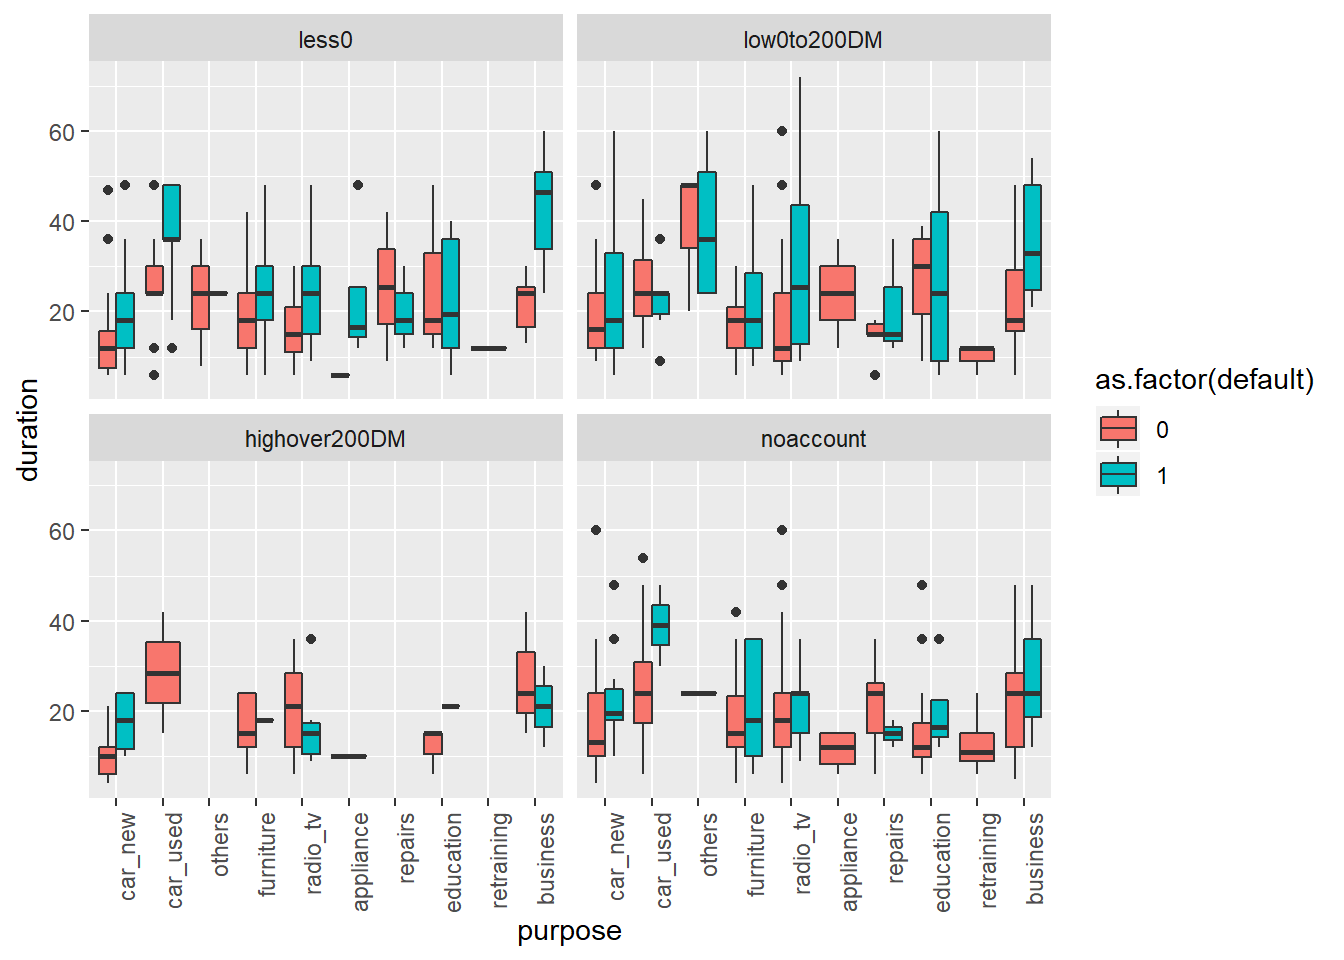
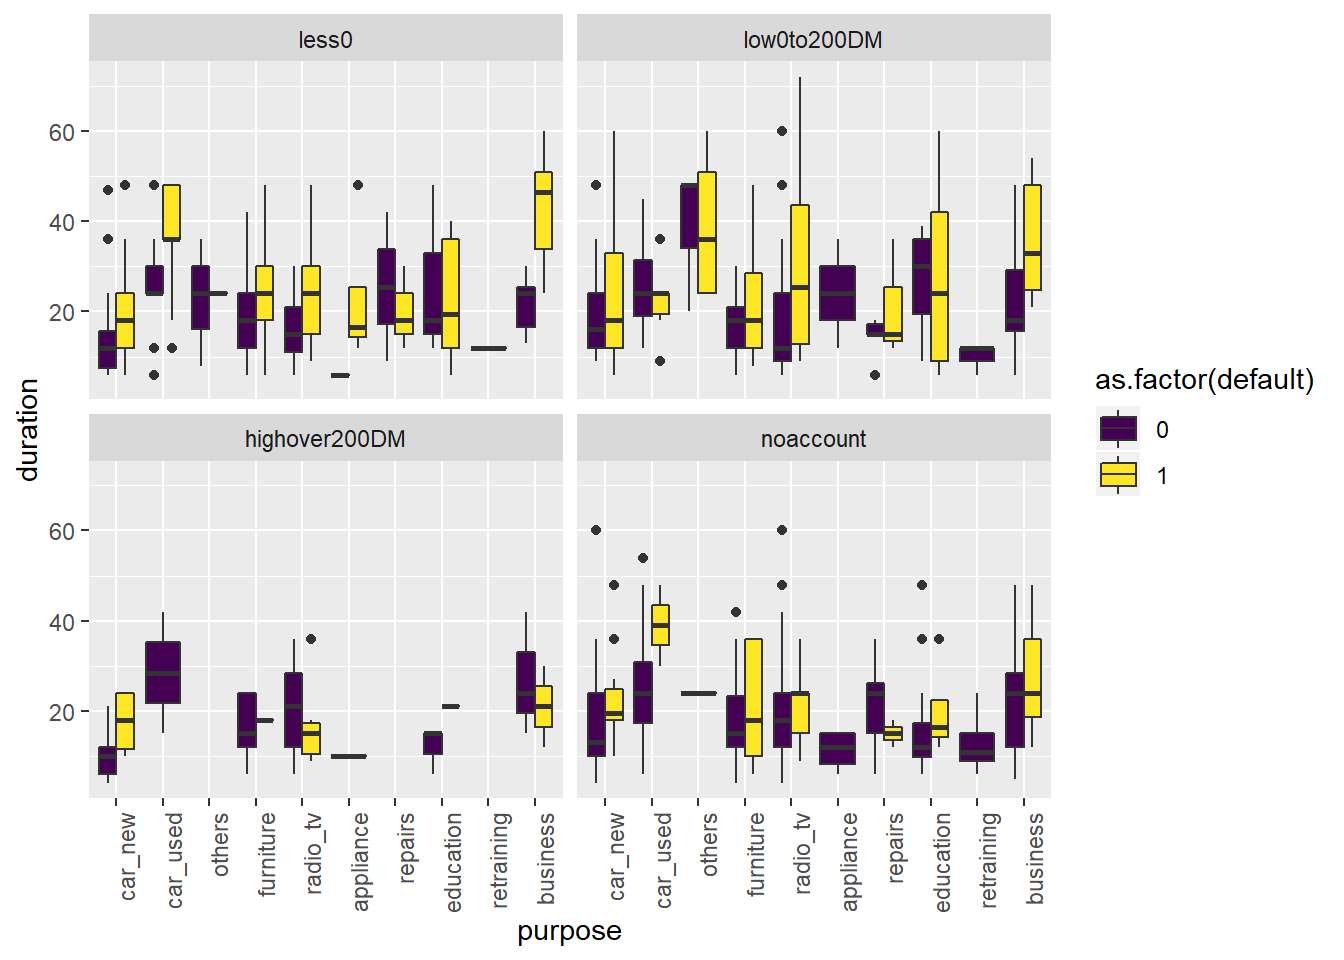
Update to knitr:kable in credit risk post

diff --git a/2018/08/15/credit-risk-modeling/index.html b/2018/08/15/credit-risk-modeling/index.html
@@ -281,11 +281,11 @@ library(scorecard)</code></pre>
 url &lt;- (&quot;http://www.biz.uiowa.edu/faculty/jledolter/DataMining/germancredit.csv&quot;)
 GET(url, write_disk(tf &lt;- tempfile(fileext = &quot;.data&quot;)))</code></pre>
 <pre><code>## Response [https://www.biz.uiowa.edu/faculty/jledolter/DataMining/germancredit.csv]
-##   Date: 2018-08-16 07:24
+##   Date: 2018-08-16 07:30
 ##   Status: 200
 ##   Content-Type: text/csv
 ##   Size: 81 kB
-## &lt;ON DISK&gt;  C:\Users\Home\AppData\Local\Temp\RtmpYfXCGe\file4d8c76f53f23.data</code></pre>
+## &lt;ON DISK&gt;  C:\Users\Home\AppData\Local\Temp\Rtmp8M1PSw\file4d3c73f754aa.data</code></pre>
 <pre class="r"><code>creditdata &lt;- read_csv(tf)</code></pre>
 <pre><code>## Parsed with column specification:
 ## cols(
@@ -635,7 +635,8 @@ IV$Summary %&gt;%
       ggplot(aes(purpose,duration,fill=as.factor(default))) +
       geom_boxplot(position=position_dodge()) +
       facet_wrap(~checkingstatus1) +
-      theme(axis.text.x = element_text(angle = 90, hjust = 1))</code></pre>
+      theme(axis.text.x = element_text(angle = 90, hjust = 1)) +
+      scale_fill_viridis_d()</code></pre>
 <p><img src="/post/CreditScoreExample_files/figure-html/boxplot-1.png" width="672" /></p>
 <div id="feature-engineering" class="section level3">
 <h3>Feature Engineering</h3>
@@ -757,7 +758,7 @@ bins &lt;- woebin(training_base, y=&quot;default&quot;,max_num_bin = 5)</code></
 <pre><code>## Warning in e$fun(obj, substitute(ex), parent.frame(), e$data): already
 ## exporting variable(s): dt, xs, y, breaks_list, min_perc_fine_bin,
 ## stop_limit, max_num_bin</code></pre>
-<pre><code>## Binning on 700 rows and 21 columns in  0: 0:13</code></pre>
+<pre><code>## Binning on 700 rows and 21 columns in  0: 0:12</code></pre>
 <pre class="r"><code># Let&#39;s visualise the bins created for the numeric variables age, duration and amount
 woebin_plot(bins$age)</code></pre>
 <pre><code>## $age</code></pre>
@@ -777,6 +778,7 @@ woebin_plot(bins$checkingstatus1)</code></pre>
 training_woe &lt;- woebin_ply(training_base, bins)</code></pre>
 <pre><code>## Warning in e$fun(obj, substitute(ex), parent.frame(), e$data): already
 ## exporting variable(s): dt, xs</code></pre>
+<pre><code>## Woe transformating on 700 rows and 20 columns in  0: 0:10</code></pre>
 <pre class="r"><code>test_woe &lt;- woebin_ply(test_base, bins)</code></pre>
 <pre><code>## Warning in e$fun(obj, substitute(ex), parent.frame(), e$data): already
 ## exporting variable(s): dt, xs</code></pre>
@@ -854,9 +856,33 @@ card$duration %&gt;%
 <pre class="r"><code>results &lt;- cbind(c(&quot;Model 1 - Logistic Model with Coarse Binning&quot;,&quot;Model 2 - Tree Model with Coarse Binning&quot;,&quot;Model 3 - Logistic Model with WOE Binning&quot;,&quot;Model 4 - Tree Model with WOE Binning&quot;),c(AUC,AUC_tree,AUC3,AUC_tree_woe)) %&gt;% 
       data.frame()
 names(results) &lt;- c(&quot;Model&quot;,&quot;AUC&quot;)
-print(AUC,AUC_tree,AUC3,AUC_tree_woe)</code></pre>
-<pre><code>## Area under the curve: 0.8</code></pre>
-<pre class="r"><code>#knitr::kable(head(results))</code></pre>
+knitr::kable(head(results))</code></pre>
+<table>
+<thead>
+<tr class="header">
+<th align="left">Model</th>
+<th align="left">AUC</th>
+</tr>
+</thead>
+<tbody>
+<tr class="odd">
+<td align="left">Model 1 - Logistic Model with Coarse Binning</td>
+<td align="left">0.780850728219149</td>
+</tr>
+<tr class="even">
+<td align="left">Model 2 - Tree Model with Coarse Binning</td>
+<td align="left">0.72027972027972</td>
+</tr>
+<tr class="odd">
+<td align="left">Model 3 - Logistic Model with WOE Binning</td>
+<td align="left">0.763272051229085</td>
+</tr>
+<tr class="even">
+<td align="left">Model 4 - Tree Model with WOE Binning</td>
+<td align="left">0.708376368518901</td>
+</tr>
+</tbody>
+</table>
 <p>It appears that all models are better than the baseline model.</p>
 <p>The tree models perform worse than the logistic models and the WOE binning did not improve the models from the manual binning. The best model overall appears to be the logistic model with coarse binning. This is surprising, as I was expecting an optimised woe process to create a better model.</p>
 <p>In this exercise we have included various plots to visualise calculations. The woebin_plots are useful for visualising the bins created and associated probabilities. The tree plots are useful for interpretability of the tree models.</p>
